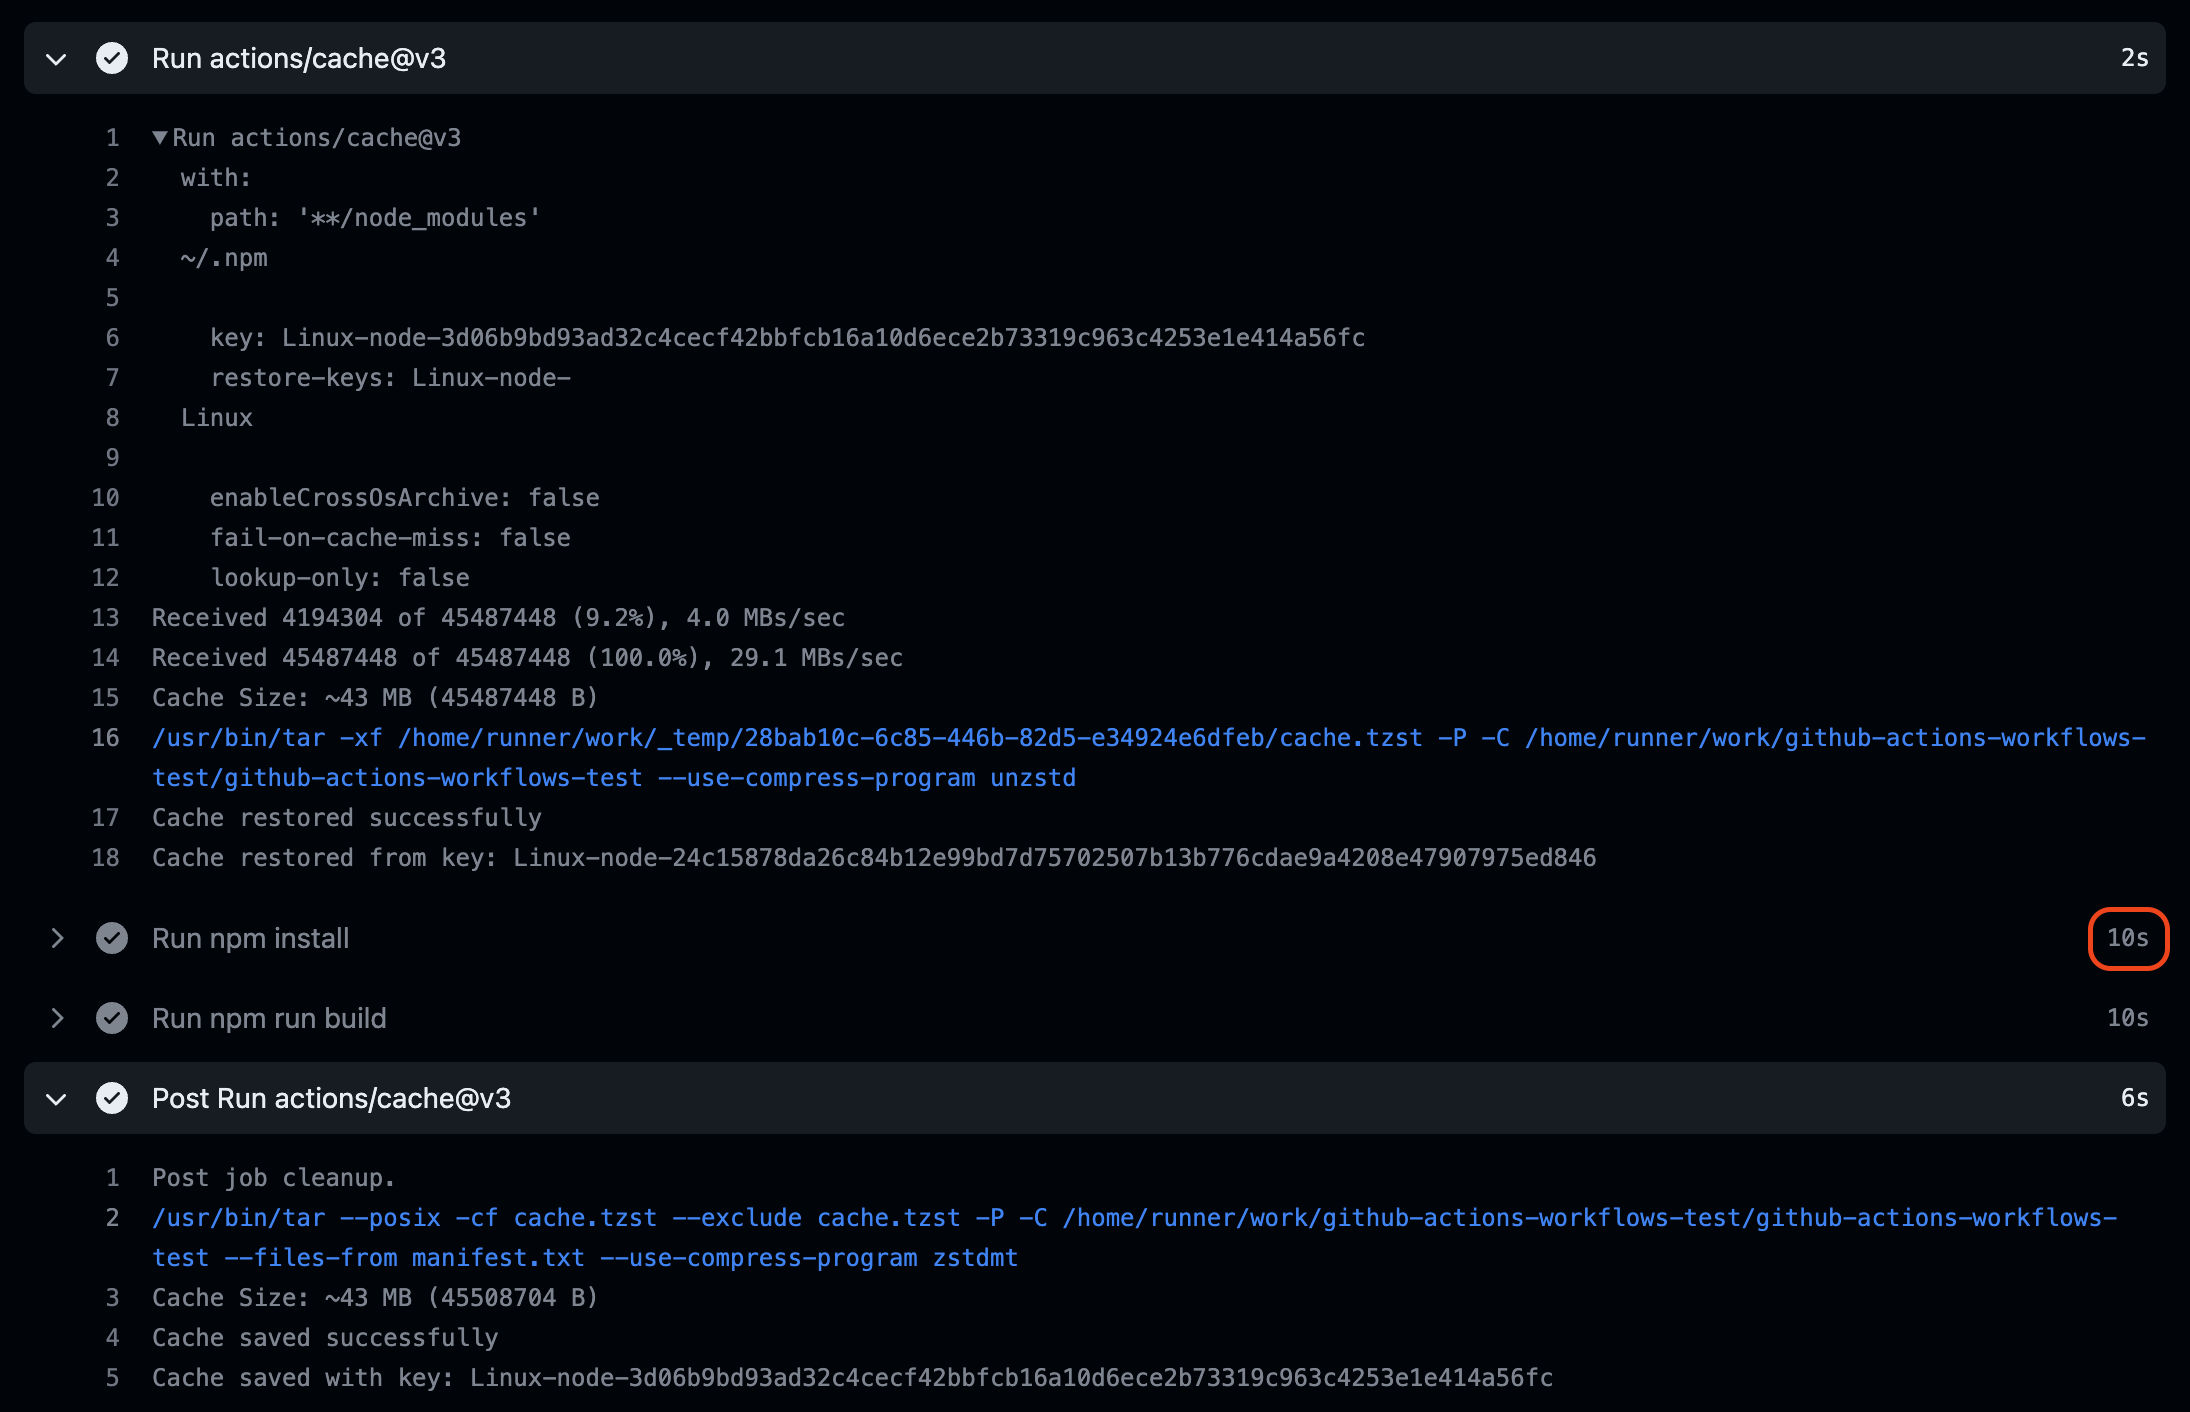
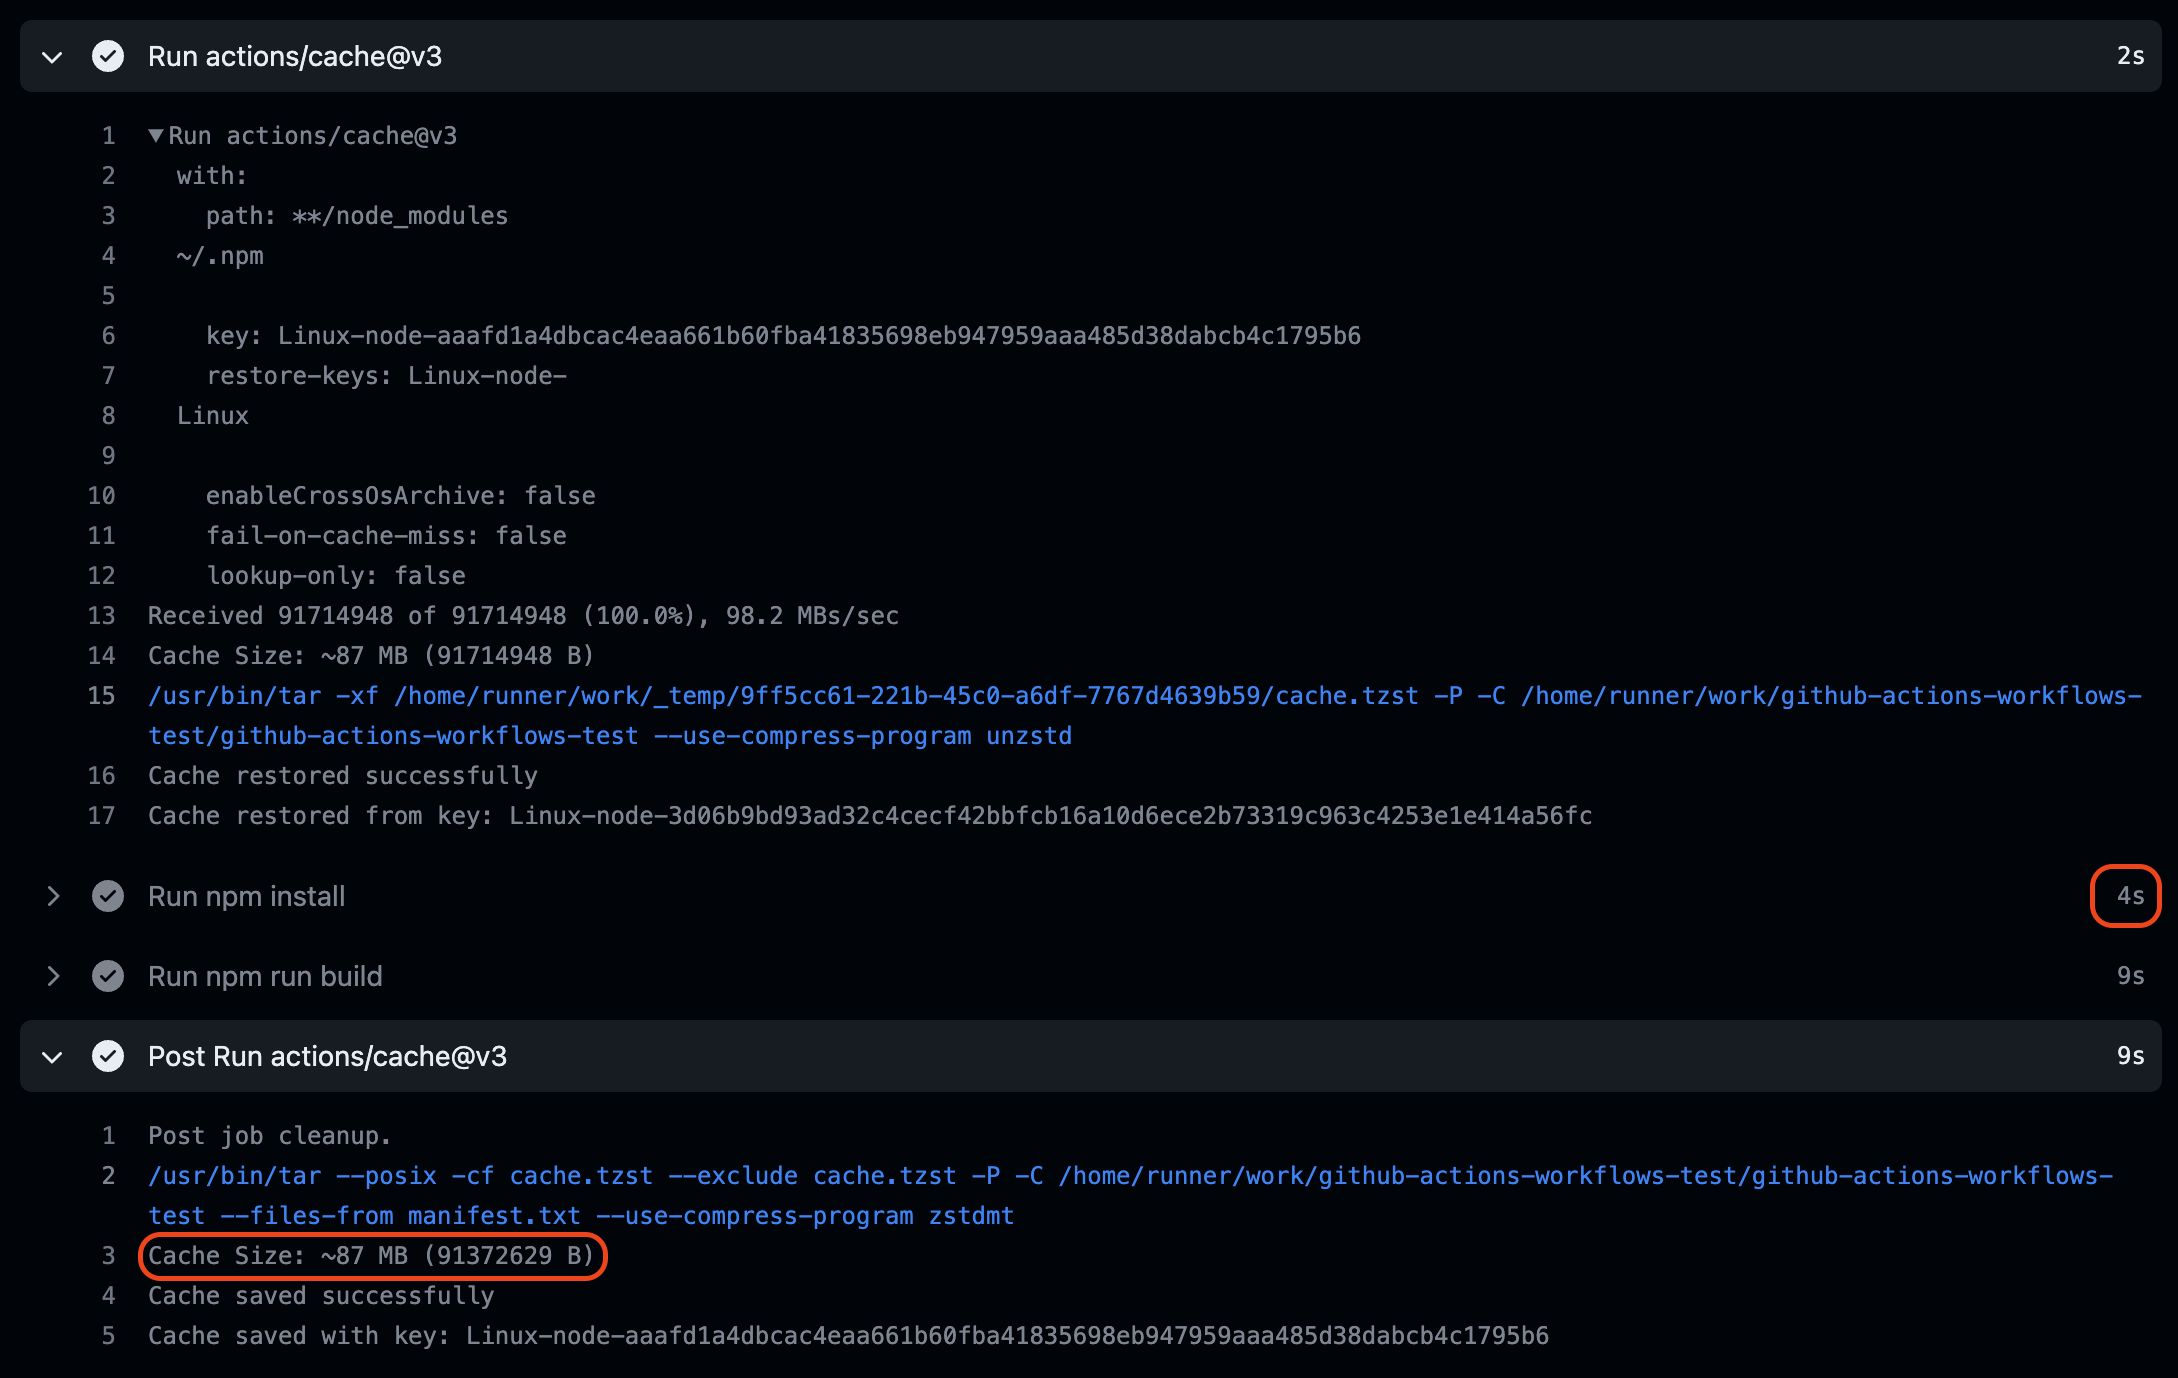
post: modify post github actions cache

diff --git a/src/content/dev-ops/cache-and-restore-keys-in-github-actions.md b/src/content/dev-ops/cache-and-restore-keys-in-github-actions.md
@@ -161,7 +161,7 @@ if 문을 사용하기 위해 9번째 라인에는 `id`를 명시 해주었다. 
 - uses: actions/cache@v3
   id: npm-cache
   with:
-    path: '**/node_modules'
+    path: **/node_modules
     key: ${{ runner.os }}-node-${{ hashFiles('**/package-lock.json') }}
 - if: ${{ steps.npm-cache.outputs.cache-hit != 'true' }}
   run: npm ci
@@ -214,7 +214,7 @@ restore-keys: |
 - uses: actions/cache@v3
   id: npm-cache
   with:
-    path: '**/node_modules'
+    path: **/node_modules
     key: ${{ runner.os }}-node-${{ hashFiles('**/package-lock.json') }}
     restore-keys: |
       ${{ runner.os }}-node-
@@ -234,17 +234,17 @@ restore-keys 옵션을 사용하기 위해, key를 새롭게 생성해주어야 
 
 재미있는 현상이 발생한다.
 
-**cache action step**
+#### cache action step
 
 - package-lock.json 파일이 수정되었기 때문에 새로운 key가 생성됨. 따라서 캐시 **미스** 상태.
 - restore-keys에 따라 기존 GitHub Actions를 통해 생성했던 캐시를 prefix 기준, 가장 최신 캐시를 복원(restore)한다. 즉, node_modules를 복원한다.
 
-**Run npm ci step**
+#### Run npm ci step
 
 - 패키지를 설치한다. -> package.json.lock 파일이 변경 되었고 새로운 패키지가 설치되어야 하기 때문이다.
 - 25s가 소요 되었다. (생각보다 오래 걸림)
 
-**Post cache actions step**
+#### Post cache actions step
 
 - 기존 cache size는 42MB로, 이번에 npm 패키지를 추가하면서 43MB로 변경되었다.
 - 새로 만든 key로 캐시를 저장한다.
@@ -271,7 +271,7 @@ restore-keys 옵션을 사용하기 위해, key를 새롭게 생성해주어야 
 - uses: actions/cache@v3
   id: npm-cache
   with:
-    path: '**/node_modules'
+    path: **/node_modules
     key: ${{ runner.os }}-node-${{ hashFiles('**/package-lock.json') }}
     restore-keys: |
       ${{ runner.os }}-node-
@@ -296,7 +296,7 @@ restore-keys 옵션을 사용하기 위해, key를 새롭게 생성해주어야 
   id: npm-cache
   with:
     path: |
-      '**/node_modules'
+      **/node_modules
       ~/.npm
     key: ${{ runner.os }}-node-${{ hashFiles('**/package-lock.json') }}
     restore-keys: |
@@ -311,7 +311,11 @@ path에 node_modules와 npm 캐시 두 경로 모두 포함시켰다.
 
 ![2path](../img/dev-ops/cache-and-restore-keys-in-github-actions/2path.png)
 
-가장 효과가 좋았다. 패키지 설치가 10s만 소요되었다. GitHub Actions 공식 예제에서 `~/.npm` path만 캐시에 저장한 것을 미루어 봤을 때, npm install 및 npm ci 명령어는 `~/.npm` 캐시를 참조하고 있음을 알 수 있으며, node_modules가 존재하면 npm install 명령어는 node_modules에 존재하지 않는 새로운 패키지만 추가로 설치한다는 가설이 검증되었다.
+가장 효과가 좋았다. 패키지 설치가 놀랍게도 4s만 소요되었다. GitHub Actions 공식 예제에서 `~/.npm` path만 캐시에 저장한 것을 미루어 봤을 때, npm install 및 npm ci 명령어는 `~/.npm` 캐시를 참조하고 있음을 알 수 있으며, node_modules가 존재하면 npm install 명령어는 node_modules에 존재하지 않는 새로운 패키지만 추가로 설치한다는 가설이 검증되었다.
+
+그리고, path가 1개일 때 캐시 사이즈는 43MB 정도였지만, 사진에는 그 두배인 87MB로 표기되고 있다.
+
+이 때, `node_modules` path를 사용할 때, 공식 문서 예제에는 `'` 로 `'node_modules'` 와 같이 되어 있지만, path를 2개 이상 적어줄 경우 `'` 를 빼고 적어주어야 한다.
 
 > ※ [actions/cache](https://github.com/actions/cache/blob/main/examples.md#node---npm)에 따르면 node_modules를 캐시하는 것은 권장되지 않는다고 한다. 노드 버전에 따라 중단될 수 있고, `npm ci` 에서 동작하지 않기 때문이라고 한다. (npm ci는 node_modules를 제거하고 다시 설치하기 때문)
 
@@ -364,7 +368,7 @@ jobs:
         id: npm-cache
         with:
           path: |
-            '**/node_modules'
+            **/node_modules
             ~/.npm
           key: ${{ runner.os }}-node-${{ hashFiles('**/package-lock.json') }}
           restore-keys: |
